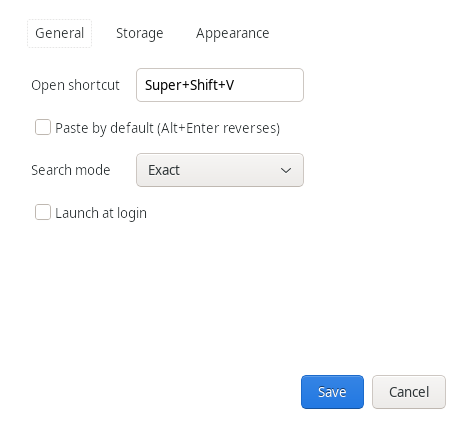
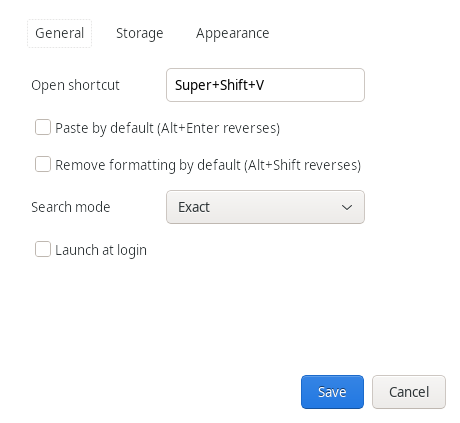
Add default plain-text copying preference

diff --git a/linuxxy.py b/linuxxy.py
@@ -385,7 +385,7 @@ class App:
             self.cancel_paste_stack()
         if paste is None:
             paste = self.settings.get("paste_by_default")
-        self.copy_entry(row, plain)
+        self.copy_entry(row, self.settings.get("remove_formatting_by_default") != plain)
         self.window.hide()
         self.search.set_text("")
         self.multi_selection.clear()
@@ -395,7 +395,9 @@ class App:
             self.paste_attempts = 0
             GLib.timeout_add(50, self.delayed_paste)
 
-    def copy_entry(self, row, plain=False):
+    def copy_entry(self, row, plain=None):
+        if plain is None:
+            plain = self.settings.get("remove_formatting_by_default")
         if plain and row.kind == "rich":
             self.ignore_own_change_until = time.monotonic() + 0.5
             self.clipboard.set_text(row.value, -1)
@@ -677,15 +679,18 @@ class App:
         paste = Gtk.CheckButton(label="Paste by default (Alt+Enter reverses)")
         paste.set_active(self.settings.get("paste_by_default"))
         grids["General"].attach(paste, 0, 1, 2, 1)
+        remove_formatting = Gtk.CheckButton(label="Remove formatting by default (Alt+Shift reverses)")
+        remove_formatting.set_active(self.settings.get("remove_formatting_by_default"))
+        grids["General"].attach(remove_formatting, 0, 2, 2, 1)
         search_mode = Gtk.ComboBoxText()
         for key, label in (("exact", "Exact"), ("fuzzy", "Fuzzy"),
                            ("regex", "Regular expression"), ("mixed", "Mixed")):
             search_mode.append(key, label)
         search_mode.set_active_id(self.settings.get("search_mode"))
-        field(grids["General"], 2, "Search mode", search_mode)
+        field(grids["General"], 3, "Search mode", search_mode)
         launch_at_login = Gtk.CheckButton(label="Launch at login")
         launch_at_login.set_active(self.settings.get("launch_at_login"))
-        grids["General"].attach(launch_at_login, 0, 3, 2, 1)
+        grids["General"].attach(launch_at_login, 0, 4, 2, 1)
 
         size = Gtk.SpinButton.new_with_range(1, 10000, 1)
         size.set_value(self.settings.get("history_size"))
@@ -772,6 +777,7 @@ class App:
             for key, value in (
                 ("shortcut", new_shortcut),
                 ("paste_by_default", paste.get_active()),
+                ("remove_formatting_by_default", remove_formatting.get_active()),
                 ("history_size", size.get_value_as_int()),
                 ("save_text", save_text.get_active()),
                 ("save_images", save_images.get_active()),

diff --git a/tests/formats_smoke.py b/tests/formats_smoke.py
@@ -108,6 +108,16 @@ def check(kind, formats, expected_data, query_code, expected_output=None):
                               "c=Gtk.Clipboard.get(Gdk.SELECTION_CLIPBOARD);print(c.wait_for_text())")
                 assert plain == title, plain
                 assert app.history.list(title)[0][3] == 'rich'
+                app.settings.set('remove_formatting_by_default', True)
+                app.choose(row, paste=False)
+                assert query("import gi;gi.require_version('Gtk','3.0');"
+                             "gi.require_version('Gdk','3.0');from gi.repository import Gtk,Gdk;"
+                             "c=Gtk.Clipboard.get(Gdk.SELECTION_CLIPBOARD);"
+                             "print(c.wait_is_target_available(Gdk.atom_intern('text/html',False)))"
+                             ) == 'False'
+                app.choose(row, paste=False, plain=True)
+                assert query(query_code) == expected_output
+                app.settings.set('remove_formatting_by_default', False)
                 app.choose(row, paste=False)
         finally:
             app.close()

diff --git a/settings.py b/settings.py
@@ -8,6 +8,7 @@ from pathlib import Path
 DEFAULTS = {
     "shortcut": "Super+Shift+V",
     "paste_by_default": False,
+    "remove_formatting_by_default": False,
     "history_size": 200,
     "check_interval_ms": 500,
     "clear_on_quit": False,

diff --git a/README.md b/README.md
@@ -44,7 +44,8 @@ second clipboard watcher. Use the tray menu to pause monitoring or quit.
 3. Type to search. Press **Down** to focus results, then use arrow keys.
 4. Press **Enter** or click a result to copy it. Press **Alt+Enter** or
    **Alt+click** to paste it into the previous window. **Escape** hides the window.
-   Use **Alt+Shift+Enter** or **Alt+Shift+click** to paste text without formatting.
+   Use **Alt+Shift+Enter** or **Alt+Shift+click** to reverse the saved formatting
+   preference for that paste (plain text by default).
 
 Use **Ctrl+1…9** to copy a visible result or **Alt+1…9** to paste it.
 Pinned entries get persistent letter shortcuts: **Ctrl+letter** copies,
@@ -66,8 +67,8 @@ Press **Space** on a selected result to preview its full text or image. A small
 preview also appears after the selected item rests for 1.5 seconds by default.
 Open **Preferences…** from the footer or tray menu, or press **Ctrl+,** while
 the popup is open. General, Storage, and Appearance pages cover the opening
-shortcut, default paste action, text/image/file capture, history limit, clipboard
-check interval, history sorting (last copied, first copied, or most copied),
+shortcut, default paste and formatting behavior, text/image/file capture, history
+limit, clipboard check interval, history sorting (last copied, first copied, or most copied),
 search mode (exact, fuzzy, regex, or mixed), match highlighting (bold, italic,
 underline, or color), pinned item position, popup position, automatic preview
 and its delay, footer visibility, clear-on-quit
